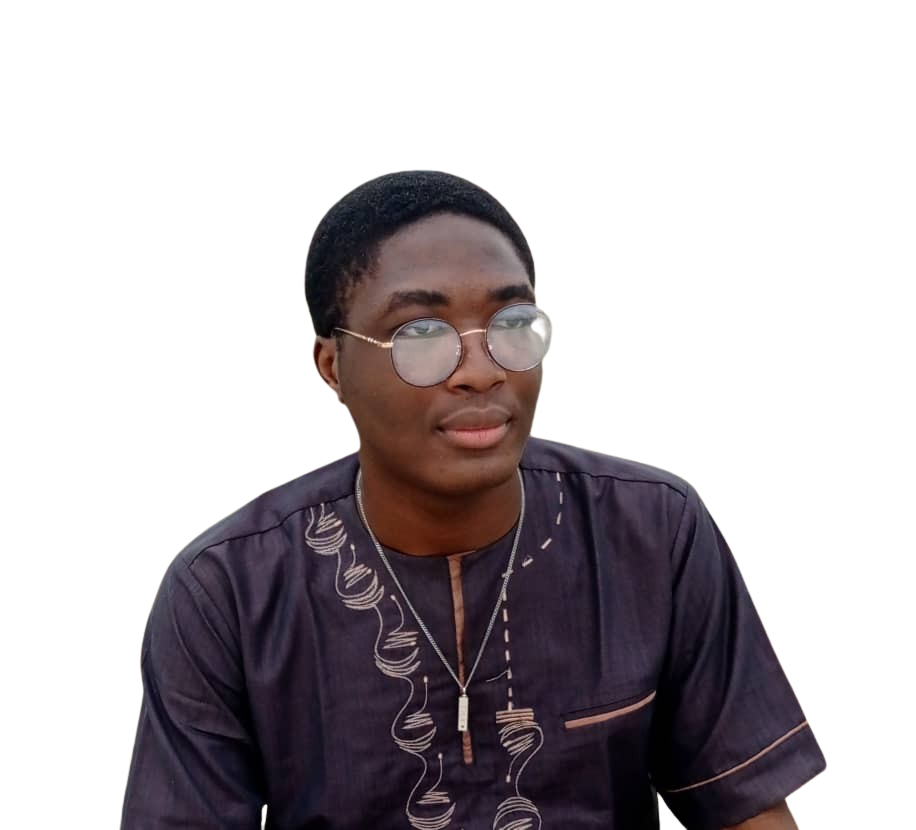
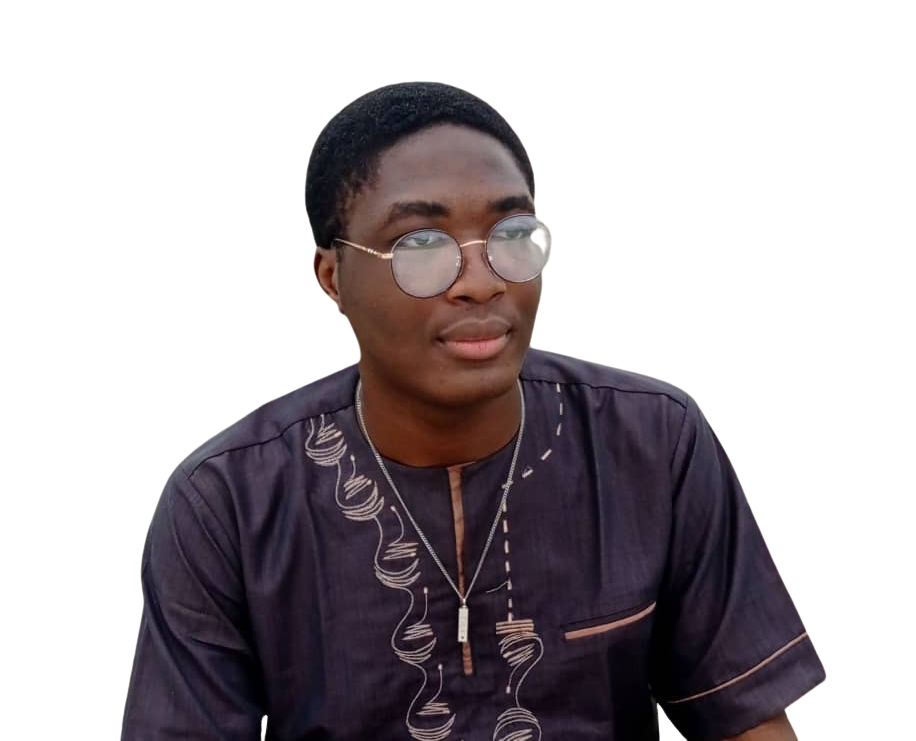
CSS
stylisation général a savoir la police, la taille de l'écriture, le bouton plus a propos de moi. la taille de l'image etc.

diff --git a/css/style.css b/css/style.css
@@ -1,4 +1,5 @@
 @import url("https://cdn-uicons.flaticon.com/2.6.0/uicons-brands/css/uicons-brands.css");
+@import url("https://fonts.googleapis.com/css2?family=Geologica:wght@100..900&display=swap");
 
 body {
   padding: 0;
@@ -44,6 +45,7 @@ body {
   padding: 0.7em 0.8em;
   margin: 0 0.1em;
   transition: all 0.5s;
+  font-family: geologica;
 }
 
 .links:hover {
@@ -63,6 +65,7 @@ body {
   position: relative;
   display: inline-block;
   padding: 0.7em 0.8em;
+  font-family: geologica;
   transition: all 0.5s;
 }
 
@@ -111,13 +114,58 @@ body {
 }
 
 .image-profile {
-  width: 27em;
-  height: 30em;
+  width: 29em;
+  height: 32em;
   object-fit: cover;
-  margin-left: 7.4em;
+  margin-left: 5em;
 }
 
 .profile-info {
-  margin-left: 2.4em;
+  margin-left: 2.1em;
   margin-right: 5em;
+}
+
+.infos-container {
+  padding-top: 4em;
+}
+
+.name {
+  color: #2f3e46;
+  font-weight: bold;
+  font-size: 5em;
+  line-height: 1.1em;
+  margin-top: 10px;
+  margin-bottom: 15px;
+  font-family: geologica;
+}
+
+.role {
+  color: #52796f;
+  font-weight: bold;
+  font-size: 2.5em;
+  margin-top: 10px;
+  margin-bottom: 15px;
+  font-family: geologica;
+}
+
+.description {
+  font-family: geologica;
+  padding-bottom: 0.6em;
+}
+
+.profil-boutton {
+  text-decoration: none;
+  color: white;
+  background-color: #465e5f;
+  padding: 1em 1.5em;
+  border-radius: 5px;
+  transition: background-color 0.5s;
+}
+
+.profil-boutton:hover {
+  background-color: #52796f;
+}
+
+.profil-boutton:active {
+  opacity: 0.5;
 }

diff --git a/index.html b/index.html
@@ -46,10 +46,14 @@
           class="image-profile">
         <div class="profile-info">
           <!-- Presentation -->
-          <h1>Herman A. TOSSAVI</h1>
-          <h2>Web Developper</h2>
-          <p>Lorem ipsum dolor sit amet consectetur adipisicing elit. Laborum dolor similique iste, modi distinctio
-            dicta quo laboriosam vel aut ex ipsam dolores beatae animi. Ullam inventore quod deleniti amet dolor.</p>
+          <article class="infos-container">
+            <h1 class="name">Herman A. TOSSAVI</h1>
+            <h2 class="role">Web Developper</h2>
+            <p class="description">Lorem ipsum dolor sit amet consectetur adipisicing elit. Laborum dolor similique
+              iste, modi distinctio
+              dicta quo laboriosam vel aut ex ipsam dolores beatae animi. Ullam inventore quod deleniti amet dolor.</p>
+            <a href="" class="profil-boutton">More About Me</a>
+          </article>
         </div>
       </div>
     </nav>
